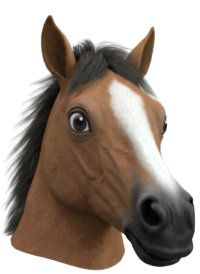
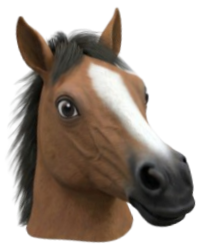
feat: Correct captured image orientation, simplify Tet frame rendering, and adjust horse face filter parameters.

diff --git a/src/presentation/components/features/face-filter/FaceFilter.tsx b/src/presentation/components/features/face-filter/FaceFilter.tsx
@@ -152,22 +152,9 @@ export function FaceFilter(): React.ReactElement {
         }
       }
 
-      // Draw Tet frame overlay (scaled so the rectangular border aligns with canvas edges)
-      // The frame image (500x500) has its border inset: ~10% left, ~14% top, ~8% right, ~10% bottom
+      // Draw Tet frame overlay covering full canvas
       if (frameImageRef.current) {
-        const borderLeft = 0.10;
-        const borderTop = 0.14;
-        const borderW = 0.82; // borderRight(0.92) - borderLeft(0.10)
-        const borderH = 0.76; // borderBottom(0.90) - borderTop(0.14)
-        const fw = canvas.width / borderW;
-        const fh = canvas.height / borderH;
-        const fx = -borderLeft * fw;
-        const fy = -borderTop * fh;
-
-        ctx.save();
-        ctx.scale(-1, 1);
-        ctx.drawImage(frameImageRef.current, -fx - fw, fy, fw, fh);
-        ctx.restore();
+        ctx.drawImage(frameImageRef.current, 0, 0, canvas.width, canvas.height);
       }
 
       animFrameRef.current = requestAnimationFrame(renderFrame);
@@ -183,7 +170,18 @@ export function FaceFilter(): React.ReactElement {
   const handleCapture = useCallback(() => {
     const canvas = canvasRef.current;
     if (!canvas) return;
-    const dataUrl = canvas.toDataURL('image/png');
+
+    // Flip horizontally to match what user sees on screen (CSS scaleX(-1))
+    const tmp = document.createElement('canvas');
+    tmp.width = canvas.width;
+    tmp.height = canvas.height;
+    const tmpCtx = tmp.getContext('2d');
+    if (!tmpCtx) return;
+    tmpCtx.translate(tmp.width, 0);
+    tmpCtx.scale(-1, 1);
+    tmpCtx.drawImage(canvas, 0, 0);
+
+    const dataUrl = tmp.toDataURL('image/png');
     const link = document.createElement('a');
     link.download = 'face-filter-tet.png';
     link.href = dataUrl;

diff --git a/src/presentation/components/features/face-filter/filters.ts b/src/presentation/components/features/face-filter/filters.ts
@@ -79,9 +79,9 @@ export const FILTERS: FaceFilterDefinition[] = [
     icon: '🐴',
     imageSrc: '/filters/horse_face.png',
     anchor: 'face-center',
-    offsetX: 0,
-    offsetY: 0.08,
-    scaleMultiplier: 2.2,
+    offsetX: 0.1,
+    offsetY: -0.1,
+    scaleMultiplier: 2.25,
     widthBasis: 'face',
   },
 ];
